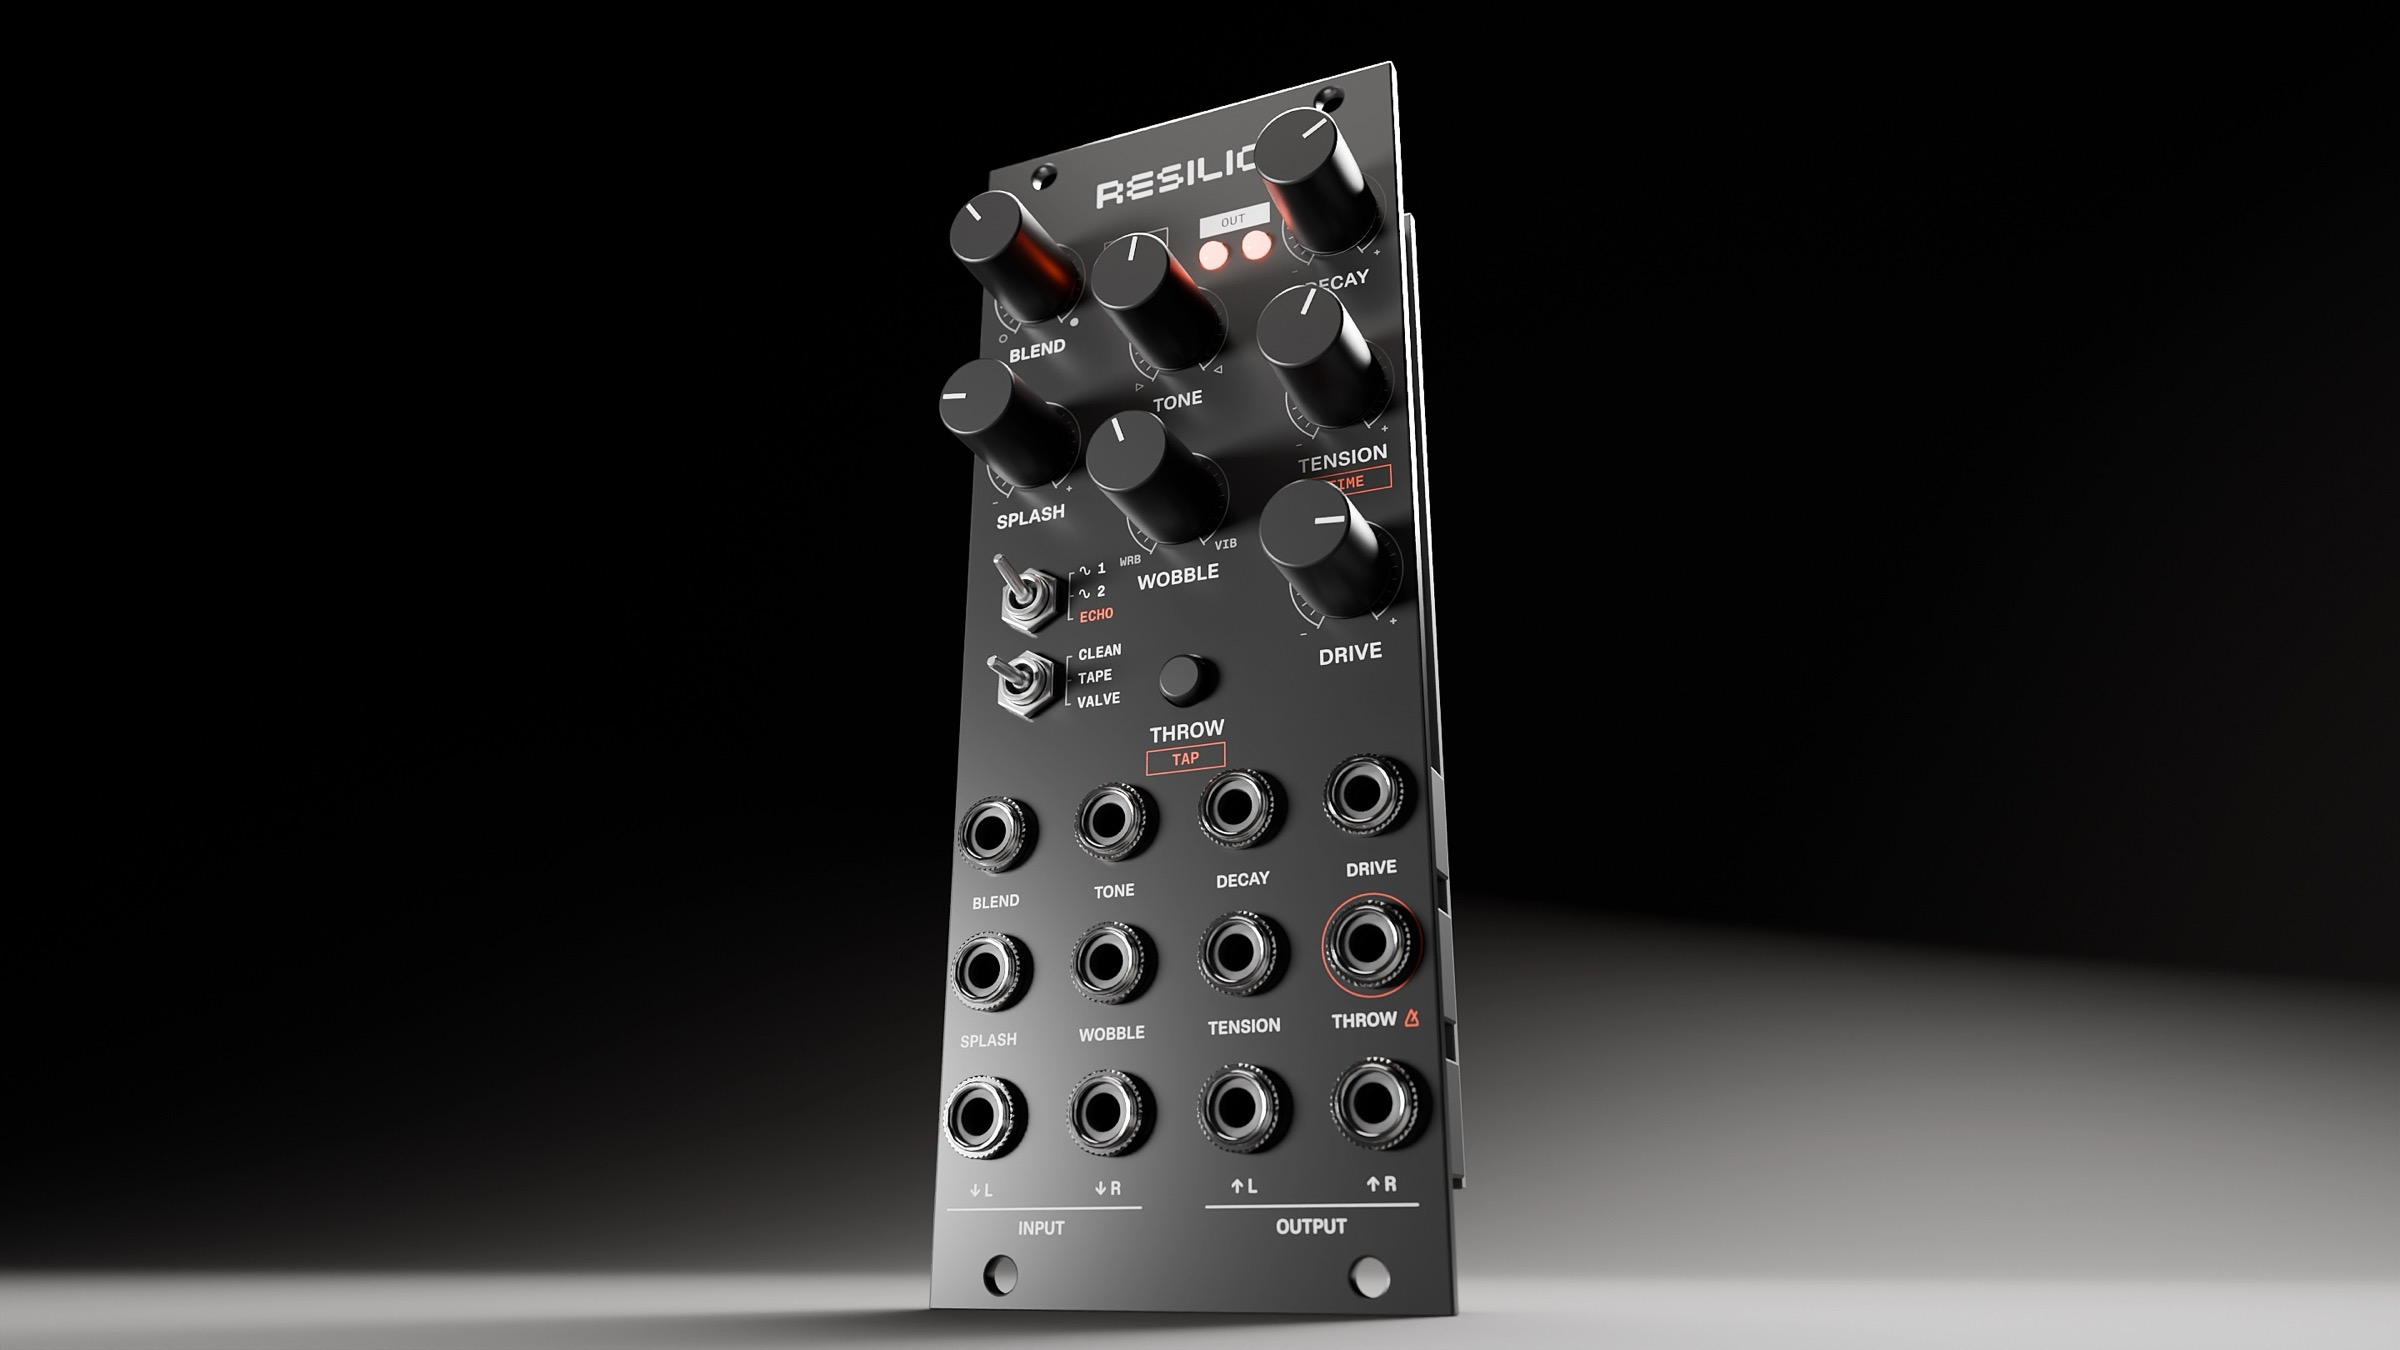
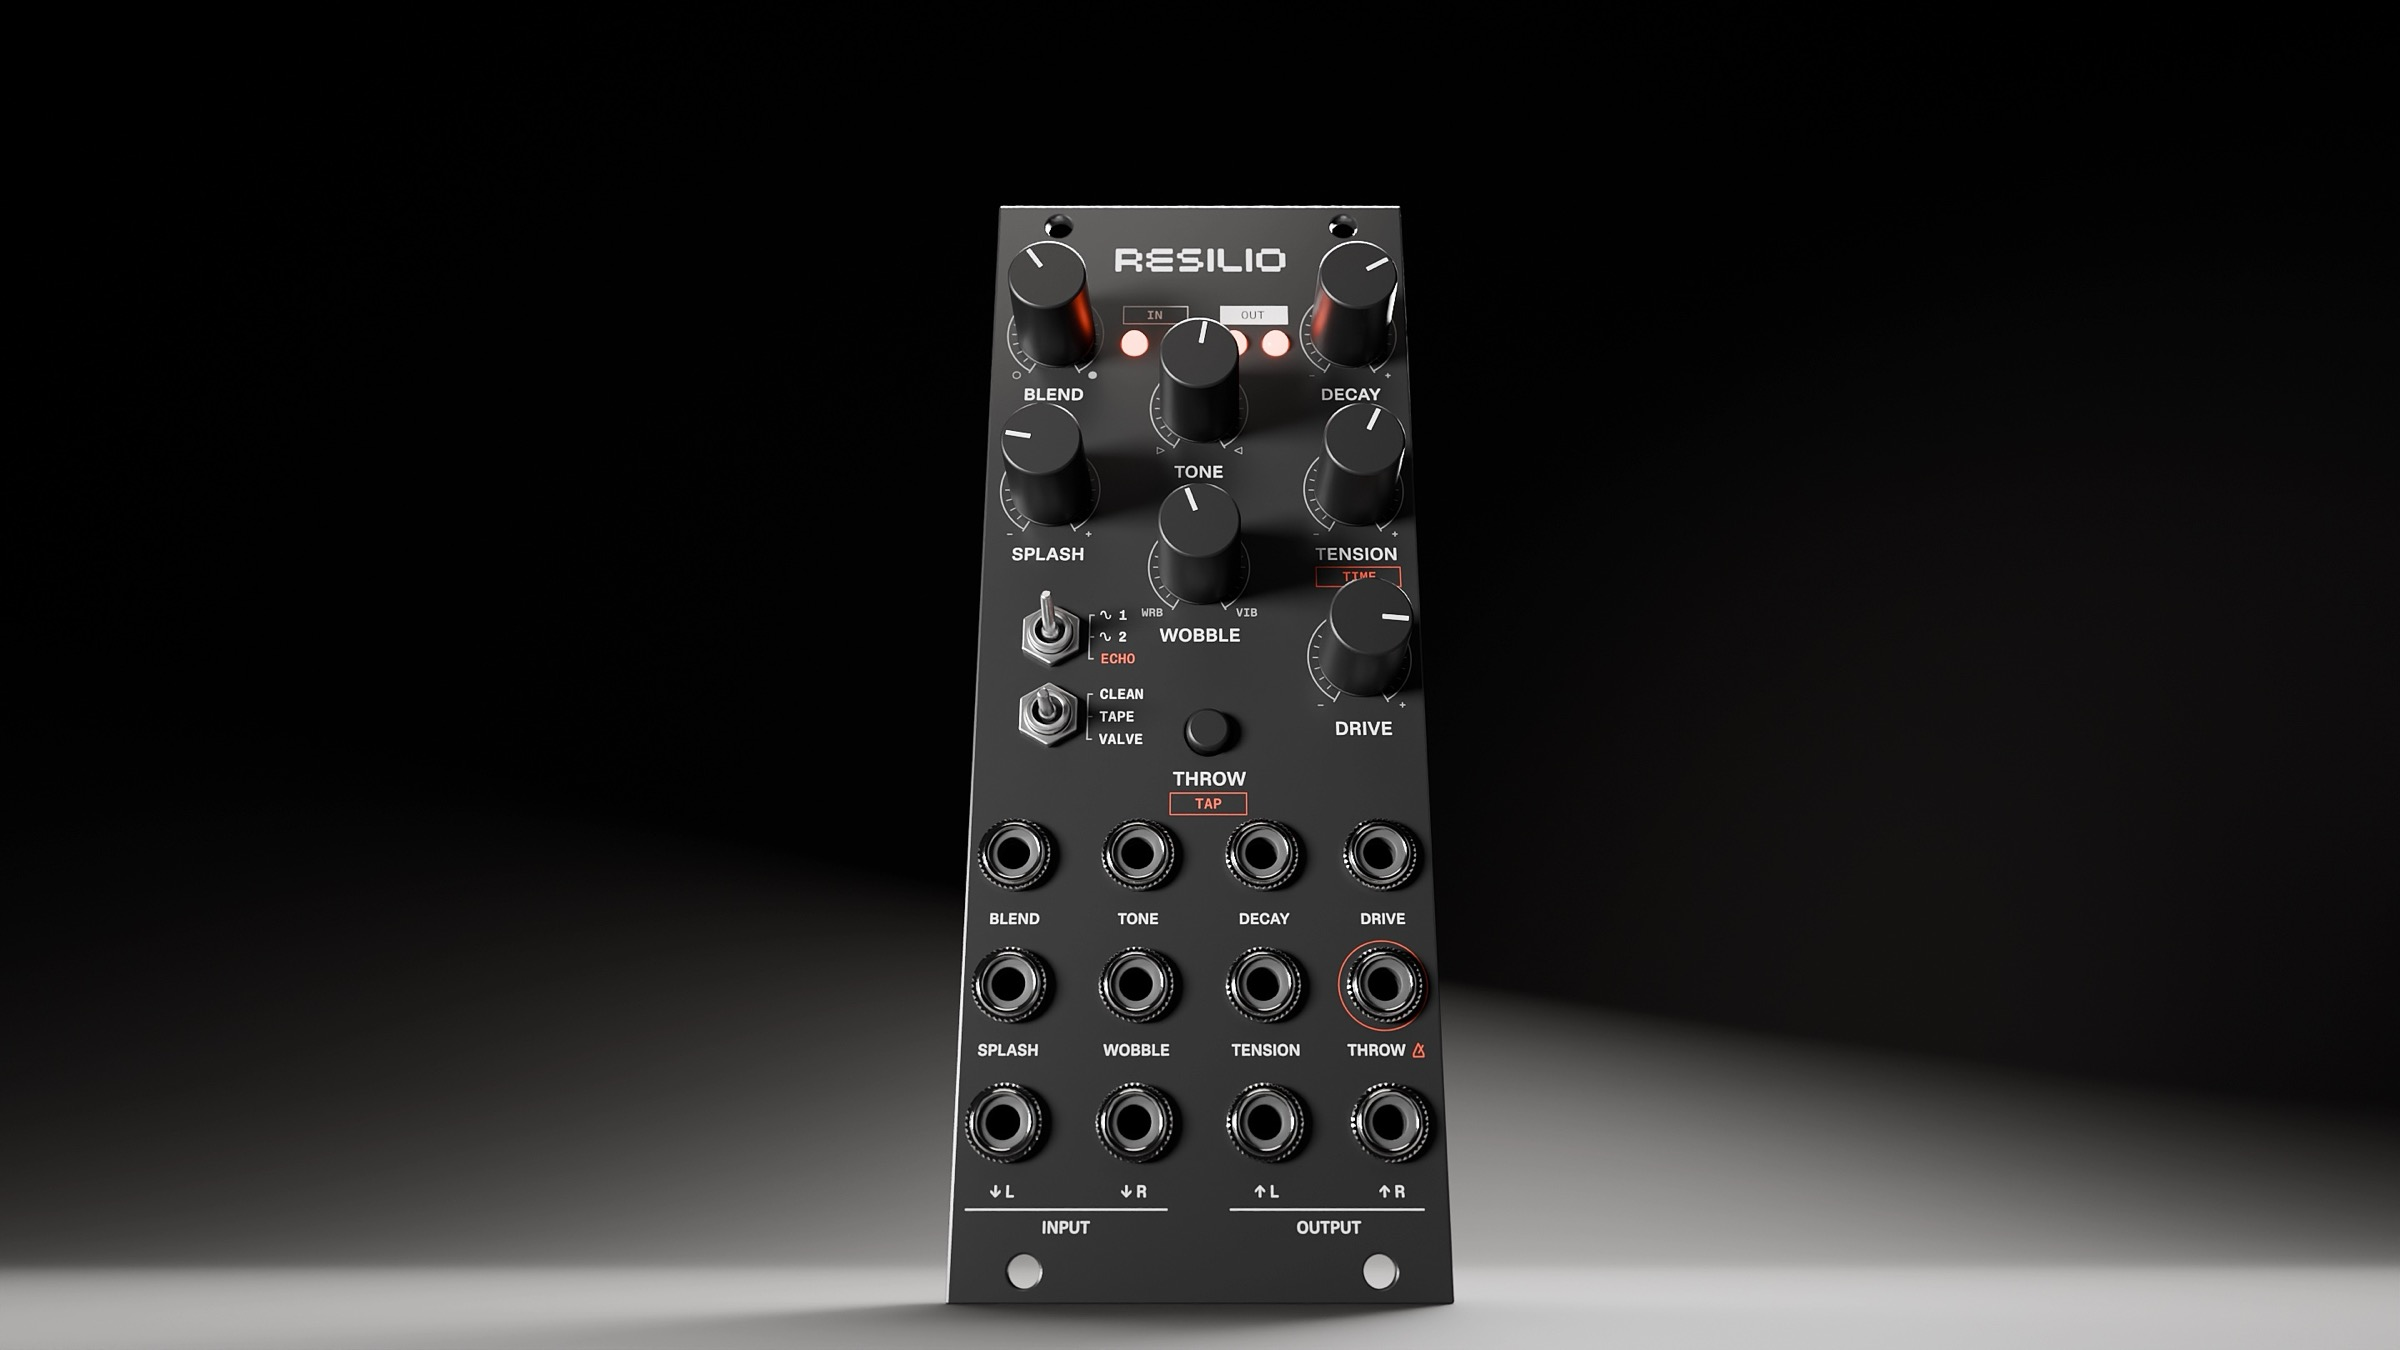
Site: hero uses the front-on monolith inside its rounded frame (was spilling full-bleed over the title) (owner)

Changed region(s): [[0.0, 0.0311, 1.0, 1.0]]

diff --git a/site/src/styles/site.css b/site/src/styles/site.css
@@ -445,7 +445,8 @@ code { font-family: var(--font-mono); font-size: 0.88em; }
 
 /* Hero: the monolith still (placeholder for the reveal video, owner 7 Oct). Dark frame, a little taller than
    the title-first cap so the module isn't cut; the image covers, anchored low so the base stays in view. */
-.hero-image { background: #050505; }
+.hero-image { position: relative; overflow: hidden; background: #050505; }   /* contains the absolutely positioned zoom layer */
+.hero-image .hero-zoom { display: block; }   /* a block, so the image's 100% height resolves against the frame */
 .hero-image .hero-zoom, .hero-image img { width: 100%; height: 100%; }
-.hero-image img { object-fit: cover; object-position: 50% 60%; }
-.hero-frame.hero-image { height: min(calc((100vw - 2 * var(--margin)) * 9 / 16), calc(100svh - var(--header-h) - 12rem)); }
+.hero-image img { object-fit: cover; object-position: 50% 70%; }   /* trim mostly the dark sky, keep the module whole */
+.hero-frame.hero-image { height: min(calc((100vw - 2 * var(--margin)) * 9 / 16), calc(100svh - var(--header-h) - 8rem)); }
